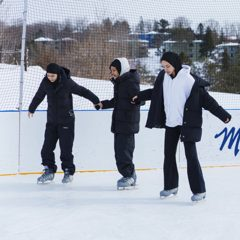
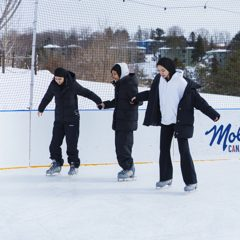
WCG hub: revision 1 — single arch hero, new photos, snow, app store links
Hero: one arch (portico & deer) with the heading under it; Ramadan Edition
as a ruled caps line; getaway in Kaushan Script. Falling snow drawn by a
requestAnimationFrame loop (the BB10 ornament fix) so iPhones in Low Power
Mode keep it moving; still frame under Reduce Motion. New tile photos
(mittens emails card, skaters waiver, bear sign directions, XC ski
activities, burger dining, Deerhurst logo app). Secondary buttons are soft
light blue; dining restaurant headers charcoal with white text; app sheet
links to the App Store and Google Play.

Claude-Session: https://claude.ai/code/session_01Xc8Kv93BdNPe4TRn85qDju

diff --git a/wcg2027-guest-hub/hub.css b/wcg2027-guest-hub/hub.css
@@ -3,7 +3,7 @@
    © 2026 Saaima Saleh. Licensed to Husna Vacations for use on husna.com only. All other rights reserved.
    Author: Saaima Saleh · Do not copy, redistribute or reuse without written permission.
    ============================================================ */
-@import url("https://fonts.googleapis.com/css2?family=Plus+Jakarta+Sans:wght@400;500;600;700&family=Source+Sans+3:wght@300;400;600&family=Great+Vibes&display=swap");
+@import url("https://fonts.googleapis.com/css2?family=Plus+Jakarta+Sans:wght@400;500;600;700&family=Source+Sans+3:wght@300;400;600&family=Kaushan+Script&display=swap");
 
 /* ---------- Elementor breakout: make the widget span the full page width · © 2026 Saaima Saleh ---------- */
 html:has(#husna-hub),body:has(#husna-hub){margin:0;padding:0;background:#EDF3FA;min-height:0}
@@ -34,7 +34,8 @@ body:has(#husna-hub) .elementor-widget-html{margin-bottom:0 !important}
   --r:14px;
   --font-head:"halyard-display","Plus Jakarta Sans",system-ui,sans-serif;
   --font-body:"source-sans-3","Source Sans 3",system-ui,sans-serif;
-  --font-script:"Great Vibes",cursive;    /* "getaway" script · swap for Kaushan Script to match BB10 */
+  --font-script:"Kaushan Script",cursive;   /* "getaway" script — same script family as the BB10 hub */
+  --charcoal:#262C38;   /* dark headers (dining hours) */
   --foot-h:60px;
   --max:520px;            /* mobile column width on tablets */
 }
@@ -76,11 +77,11 @@ body:has(#husna-hub) .elementor-widget-html{margin-bottom:0 !important}
   #husna-hub .hh-btn{-webkit-tap-highlight-color:transparent;transition:background .15s ease, border-color .15s ease, box-shadow .15s ease, transform .1s ease}
   #husna-hub .hh-btn:active{transform:scale(.98)}
   #husna-hub .hh-btn--primary{background:var(--ind);color:var(--white);box-shadow:0 4px 12px rgba(66,102,174,.32)}
-  #husna-hub .hh-btn--outline{background:var(--white);color:var(--ind);border:2px solid var(--ind)}
+  #husna-hub .hh-btn--outline{background:var(--ice-pale);color:var(--ind-deep);border:0}   /* soft light-blue secondary, no outline */
   /* hover colours only on devices that actually hover; on touch the colour used to stick after a tap */
   @media (hover:hover){
     #husna-hub .hh-btn--primary:hover{background:var(--ind-deep);color:var(--white)}
-    #husna-hub .hh-btn--outline:hover{background:var(--ice-mist);color:var(--ind-deep);border-color:var(--ind-deep)}
+    #husna-hub .hh-btn--outline:hover{background:var(--ice);color:var(--ind-deep)}
   }
   #husna-hub .hh-btn:focus{outline:0}
   #husna-hub .hh-btn:focus-visible{outline:3px solid var(--ind-soft);outline-offset:2px}
@@ -103,7 +104,9 @@ body:has(#husna-hub) .elementor-widget-html{margin-bottom:0 !important}
   #husna-hub .hh-flake--a{width:68px;height:68px;top:30px;left:-14px;transform:rotate(12deg)}
   #husna-hub .hh-flake--b{width:46px;height:46px;top:98px;right:-8px;transform:rotate(-18deg)}
   #husna-hub .hh-flake--c{display:none}
-  /* arch trio · © 2026 Saaima Saleh */
+  /* falling snow (canvas added by hub.js, drawn by a frame loop so iPhones keep it moving) · © 2026 Saaima Saleh */
+  #husna-hub .hh-snow{position:absolute;inset:0;width:100% !important;height:100% !important;pointer-events:none}
+  /* hero arch · © 2026 Saaima Saleh */
   #husna-hub .hh-arches{display:flex;align-items:flex-end;justify-content:center;margin-top:16px;position:relative;z-index:1}
   #husna-hub .hh-arch{
     flex:none;overflow:hidden;background:var(--ice);
@@ -112,20 +115,17 @@ body:has(#husna-hub) .elementor-widget-html{margin-bottom:0 !important}
     box-shadow:0 10px 26px rgba(66,102,174,.22);
   }
   #husna-hub .hh-arch img{width:100% !important;height:100% !important;object-fit:cover}
-  #husna-hub .hh-arch--main{width:168px;height:224px;z-index:2}
-  #husna-hub .hh-arch--side{width:104px;height:150px;opacity:.96}
-  #husna-hub .hh-arch--l{margin-right:-16px;margin-bottom:10px}
-  #husna-hub .hh-arch--r{margin-left:-16px;margin-bottom:10px}
-  #husna-hub .hh-arch--l img{object-position:50% 18%}
+  #husna-hub .hh-arch--main{width:196px;height:258px;z-index:2}
   /* title block · © 2026 Saaima Saleh */
   #husna-hub .hh-hero__title{display:flex;flex-direction:column;align-items:center;text-align:center;margin-top:18px;color:var(--ind);position:relative;z-index:1}
   #husna-hub .hh-hero__sss{font-family:var(--font-head);font-size:9px;font-weight:500;letter-spacing:3px;text-transform:lowercase;color:var(--ink-60);margin-bottom:7px}
-  #husna-hub .hh-hero__eyebrow{font-family:var(--font-head);font-size:24px;font-weight:700;letter-spacing:3.5px;text-transform:uppercase;line-height:1}
-  #husna-hub .hh-hero__script{font-family:var(--font-script);font-size:40px;line-height:.9;margin-top:2px;font-weight:400}
-  #husna-hub .hh-hero__badge{
-    font-family:var(--font-head);font-size:9px;font-weight:600;letter-spacing:2.6px;text-transform:uppercase;
-    margin-top:12px;padding:5px 12px;border:1px solid var(--ind-soft);border-radius:999px;color:var(--ind);
+  #husna-hub .hh-hero__eyebrow{font-family:var(--font-head);font-size:25px;font-weight:700;letter-spacing:3.5px;text-transform:uppercase;line-height:1}
+  #husna-hub .hh-hero__script{font-family:var(--font-script);font-size:30px;line-height:1;margin-top:6px;font-weight:400;transform:rotate(-2deg)}
+  #husna-hub .hh-hero__ed{
+    display:flex;align-items:center;gap:10px;margin-top:14px;
+    font-family:var(--font-head);font-size:9.5px;font-weight:600;letter-spacing:3.2px;text-transform:uppercase;color:var(--ind);
   }
+  #husna-hub .hh-hero__ed::before,#husna-hub .hh-hero__ed::after{content:"";width:22px;height:1px;background:var(--ind-soft)}
 
   /* ---------- countdown card · © 2026 Saaima Saleh ---------- */
   #husna-hub .hh-count{
@@ -262,8 +262,8 @@ body:has(#husna-hub) .elementor-widget-html{margin-bottom:0 !important}
 
   /* hours tables (dining) · © 2026 Saaima Saleh */
   #husna-hub .hh-hours{border:1px solid var(--ice-pale);border-radius:var(--r);overflow:hidden}
-  #husna-hub .hh-hours__name{display:flex;align-items:center;justify-content:space-between;gap:10px;padding:11px 14px;background:var(--ice-mist);font-family:var(--font-head);font-size:13px;font-weight:600;letter-spacing:.3px}
-  #husna-hub .hh-hours__name em{font-style:normal;font-family:var(--font-body);font-size:11px;font-weight:400;color:var(--ink-60);white-space:nowrap}
+  #husna-hub .hh-hours__name{display:flex;align-items:center;justify-content:space-between;gap:10px;padding:11px 14px;background:var(--charcoal);color:var(--white);font-family:var(--font-head);font-size:13px;font-weight:600;letter-spacing:.3px}
+  #husna-hub .hh-hours__name em{font-style:normal;font-family:var(--font-body);font-size:11px;font-weight:400;color:rgba(255,255,255,.65);white-space:nowrap}
   #husna-hub .hh-hours > div:not(.hh-hours__name){display:flex;align-items:baseline;justify-content:space-between;gap:12px;padding:9px 14px;border-top:1px solid var(--ice-mist);font-size:13.5px}
   #husna-hub .hh-hours > div:not(.hh-hours__name) b{font-weight:500;white-space:nowrap}
   #husna-hub .hh-hours > div:not(.hh-hours__name) span{color:var(--ink-60)}
@@ -348,14 +348,12 @@ body:has(#husna-hub) .elementor-widget-html{margin-bottom:0 !important}
     #husna-hub .hh-arches{grid-area:arches}
     #husna-hub .hh-hero__title{grid-area:title;align-items:flex-start;text-align:left;margin-top:0;align-self:start;padding-top:26px}
     #husna-hub .hh-hero__sss{font-size:11px;letter-spacing:4px}
-    #husna-hub .hh-hero__eyebrow{font-size:44px;letter-spacing:5px}
-    #husna-hub .hh-hero__script{font-size:64px;margin-top:4px}
-    #husna-hub .hh-hero__badge{font-size:10px;margin-top:18px}
+    #husna-hub .hh-hero__eyebrow{font-size:42px;letter-spacing:5px}
+    #husna-hub .hh-hero__script{font-size:46px;margin-top:10px}
+    #husna-hub .hh-hero__ed{font-size:10.5px;margin-top:20px}
+    #husna-hub .hh-hero__ed::before,#husna-hub .hh-hero__ed::after{width:30px}
     #husna-hub .hh-arches{margin-top:0}
-    #husna-hub .hh-arch--main{width:220px;height:296px}
-    #husna-hub .hh-arch--side{width:136px;height:198px}
-    #husna-hub .hh-arch--l{margin-right:-20px;margin-bottom:14px}
-    #husna-hub .hh-arch--r{margin-left:-20px;margin-bottom:14px}
+    #husna-hub .hh-arch--main{width:256px;height:338px;border-width:6px}
     #husna-hub .hh-flake--a{width:90px;height:90px;top:40px;left:4%}
     #husna-hub .hh-flake--b{width:56px;height:56px;top:auto;bottom:60px;right:3%}
     #husna-hub .hh-flake--c{display:block;position:absolute;width:44px;height:44px;top:60px;right:38%}
@@ -401,5 +399,5 @@ body:has(#husna-hub) .elementor-widget-html{margin-bottom:0 !important}
   }
   /* wide phones / small tablets: keep mobile layout centered */
   @media (min-width:600px) and (max-width:899px){
-    #husna-hub .hh-arch--main{width:190px;height:254px}
+    #husna-hub .hh-arch--main{width:216px;height:284px}
   }

diff --git a/wcg2027-guest-hub/hub.js b/wcg2027-guest-hub/hub.js
@@ -16,17 +16,15 @@
     itinerary: '',                    // leave empty until the itinerary page exists; the button disables itself
     img: {
       wordmark:   IMG + 'wordmark-blue.png',
-      archMain:   IMG + 'arch-pavilion.jpg',
-      archL:      IMG + 'arch-snowkid.jpg',
-      archR:      IMG + 'arch-village.jpg',
+      archMain:   IMG + 'arch-hero.jpg',        // Deerhurst portico & deer in the snow
       smiley:     'https://husna.com/wp-content/uploads/2026/09/smiley.png',
-      emails:     IMG + 'feat-moon.jpg',
+      emails:     IMG + 'feat-mittens.jpg',     // CANADA mittens
       packing:    IMG + 'th-packing.jpg',
-      waiver:     IMG + 'th-waiver.jpg',
-      map:        IMG + 'th-map.jpg',
-      activities: IMG + 'th-activities.jpg',
-      dining:     IMG + 'th-dining.jpg',
-      app:        IMG + 'th-app.jpg'
+      waiver:     IMG + 'th-waiver.jpg',        // skating trio
+      map:        IMG + 'th-map.jpg',           // "To Deerhurst" bear sign
+      activities: IMG + 'th-activities.jpg',    // cross-country skiing
+      dining:     IMG + 'th-dining.jpg',        // Maple Pub burger
+      app:        IMG + 'th-app.jpg'            // Deerhurst logo
     },
     // Newest first. "added" drives the NEW badge. Optional "until" hides the row after that date.
     // Fill from the WCG2027 Email Campaign sheet as emails go out:
@@ -130,6 +128,62 @@
     const s = el.querySelector('svg'); if (s) s.remove();
     el.insertAdjacentHTML('beforeend', '<span style="font-size:10px;font-weight:500;letter-spacing:1px;text-transform:uppercase;opacity:.7">soon</span>');
   });
+
+  /* falling snow in the hero · © 2026 Saaima Saleh
+     Drawn on a canvas by a requestAnimationFrame loop — same approach as the BB10 itinerary ornaments —
+     because iPhones in Low Power Mode and some Safari versions stop CSS/SVG-native animation, but a frame
+     loop keeps running. With Reduce Motion on, the snow is drawn once and holds still. */
+  (function snow(){
+    const hero = $('.hh-hero'); if (!hero || !('getContext' in document.createElement('canvas'))) return;
+    const cv = document.createElement('canvas');
+    cv.className = 'hh-snow'; cv.setAttribute('aria-hidden', 'true');
+    hero.prepend(cv);
+    const ctx = cv.getContext('2d'); if (!ctx) return;
+    const STILL = window.matchMedia && matchMedia('(prefers-reduced-motion: reduce)').matches;
+    const rnd = (a, b) => a + Math.random() * (b - a);
+    let W = 0, H = 0, flakes = [], raf = 0, seen = true, last = 0;
+
+    function size(){
+      const dpr = Math.min(window.devicePixelRatio || 1, 2);
+      W = hero.clientWidth; H = hero.clientHeight;
+      cv.width = Math.max(1, W * dpr); cv.height = Math.max(1, H * dpr);
+      ctx.setTransform(dpr, 0, 0, dpr, 0, 0);
+    }
+    const make = y => ({ x: rnd(0, W), y: y == null ? rnd(-20, H) : y,
+      r: rnd(1, 3), v: rnd(9, 22), a: rnd(.3, .7), p: rnd(0, Math.PI * 2), w: rnd(6, 18), d: rnd(.3, .7) });
+    const fill = () => { flakes = []; const n = Math.round(Math.min(34, Math.max(16, W / 28))); while (flakes.length < n) flakes.push(make()); };
+
+    function paint(dt){
+      ctx.clearRect(0, 0, W, H);
+      ctx.fillStyle = '#fff';
+      for (let i = 0; i < flakes.length; i++){
+        const f = flakes[i];
+        if (dt){ f.y += f.v * dt; f.p += f.d * dt; if (f.y - 4 > H) flakes[i] = Object.assign(make(-5), { y: -5 }); }
+        const g = flakes[i];
+        ctx.globalAlpha = g.a;
+        ctx.beginPath(); ctx.arc(g.x + Math.sin(g.p) * g.w, g.y, g.r, 0, 6.3); ctx.fill();
+      }
+      ctx.globalAlpha = 1;
+    }
+    function tick(now){
+      const dt = Math.min((now - (last || now)) / 1000, .05); last = now;
+      paint(dt);
+      raf = seen ? requestAnimationFrame(tick) : 0;
+    }
+    const go = () => { if (!STILL && seen && !raf){ last = 0; raf = requestAnimationFrame(tick); } };
+
+    size(); fill();
+    if (STILL) paint(0); else go();
+    window.addEventListener('resize', () => { size(); fill(); if (STILL) paint(0); });
+    window.addEventListener('load', () => { size(); if (STILL) paint(0); });    // hero height settles once fonts arrive
+    document.addEventListener('visibilitychange', () => { if (document.hidden){ seen = false; } else { seen = true; go(); } });
+    if ('IntersectionObserver' in window){
+      new IntersectionObserver(es => es.forEach(e => {
+        seen = e.isIntersecting && !document.hidden;
+        if (seen) go();
+      })).observe(hero);
+    }
+  })();
 
   /* countdown · © 2026 Saaima Saleh */
   (function countdown(){

diff --git a/wcg2027-guest-hub/hub-wordpress.html b/wcg2027-guest-hub/hub-wordpress.html
@@ -26,15 +26,13 @@
     <div class="hh-hero__in">
       <img class="hh-hero__logo" data-src="wordmark" alt="Husna Vacations">
       <div class="hh-arches" aria-hidden="true">
-        <span class="hh-arch hh-arch--side hh-arch--l"><img data-src="archL" alt=""></span>
         <span class="hh-arch hh-arch--main"><img data-src="archMain" alt="" fetchpriority="high"></span>
-        <span class="hh-arch hh-arch--side hh-arch--r"><img data-src="archR" alt=""></span>
       </div>
       <div class="hh-hero__title">
         <span class="hh-hero__sss">slopes&nbsp;&nbsp;|&nbsp;&nbsp;solace&nbsp;&nbsp;|&nbsp;&nbsp;salah</span>
         <span class="hh-hero__eyebrow">Winter Classic</span>
         <span class="hh-hero__script">getaway</span>
-        <span class="hh-hero__badge">The Ramadan Edition</span>
+        <span class="hh-hero__ed">The Ramadan Edition</span>
       </div>
     </div>
   </header>
@@ -164,8 +162,15 @@
     </div>
     <div class="hh-dlg__body hh-stack" style="gap:14px">
       <p class="hh-lead">Resort maps, hours and what&rsquo;s on, all weekend, all in your pocket. Download it before you lose signal on the drive up.</p>
-      <a class="hh-btn hh-btn--primary" href="https://deerhurstresort.com/deerhurst-resort-app/" target="_blank" rel="noopener" data-elementor-open-lightbox="no">Get the app
-        <svg width="16" height="16" viewBox="0 0 24 24" fill="none" stroke="currentColor" stroke-width="2" stroke-linecap="round" aria-hidden="true"><path d="M7 17L17 7M9 7h8v8"/></svg></a>
+      <div class="hh-stack">
+        <a class="hh-btn hh-btn--primary" href="https://apps.apple.com/ca/app/deerhurst-resort/id6471869264" target="_blank" rel="noopener" data-elementor-open-lightbox="no">
+          <svg width="17" height="17" viewBox="0 0 24 24" fill="currentColor" aria-hidden="true"><path d="M17.05 12.54c-.03-2.5 2.04-3.7 2.13-3.76-1.16-1.7-2.97-1.93-3.61-1.96-1.54-.16-3 .9-3.78.9-.78 0-1.98-.88-3.26-.86-1.68.03-3.22.97-4.08 2.47-1.74 3.02-.44 7.49 1.25 9.94.83 1.2 1.82 2.55 3.12 2.5 1.25-.05 1.72-.8 3.23-.8s1.93.8 3.25.78c1.34-.02 2.19-1.22 3.01-2.43.95-1.39 1.34-2.74 1.36-2.8-.03-.02-2.6-1-2.62-3.98zM14.56 4.9c.69-.84 1.15-2 1.02-3.15-.99.04-2.18.66-2.89 1.49-.63.74-1.19 1.92-1.04 3.05 1.1.08 2.22-.56 2.91-1.39z"/></svg>
+          Download for iPhone</a>
+        <a class="hh-btn hh-btn--outline" href="https://play.google.com/store/apps/details?id=com.chronogolf.booking.deerhurst&amp;hl=en_CA" target="_blank" rel="noopener" data-elementor-open-lightbox="no">
+          <svg width="16" height="16" viewBox="0 0 24 24" fill="currentColor" aria-hidden="true"><path d="M4 3.5v17c0 .4.45.65.78.42l12.4-8.5a.5.5 0 0 0 0-.84L4.78 3.08A.5.5 0 0 0 4 3.5zm14.9 7.03l-2.72-1.87-2.1 1.84 2.1 1.84 2.72-1.87a.5.5 0 0 0 0-.84z" opacity=".9"/></svg>
+          Download for Android</a>
+      </div>
+      <p style="font-size:12px;color:var(--ink-60);text-align:center;margin:0">Or find it on <a href="https://deerhurstresort.com/deerhurst-resort-app/" target="_blank" rel="noopener" style="color:var(--ind);font-weight:400">Deerhurst&rsquo;s app page &#8599;</a></p>
     </div>
   </dialog>
 
